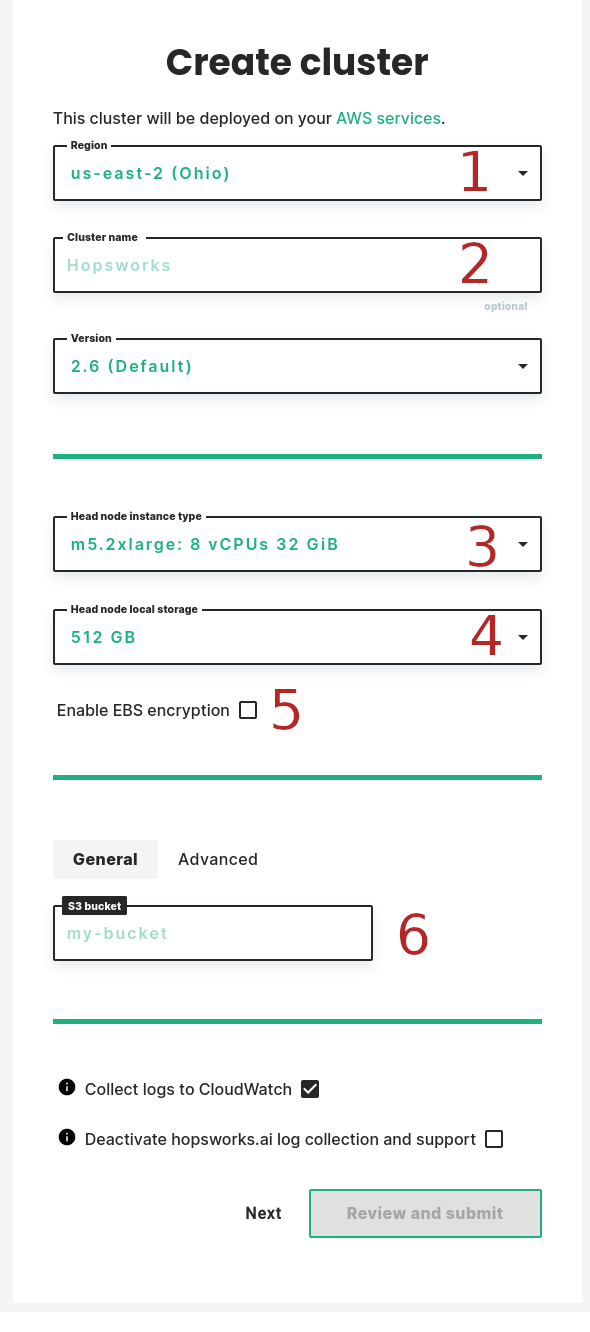
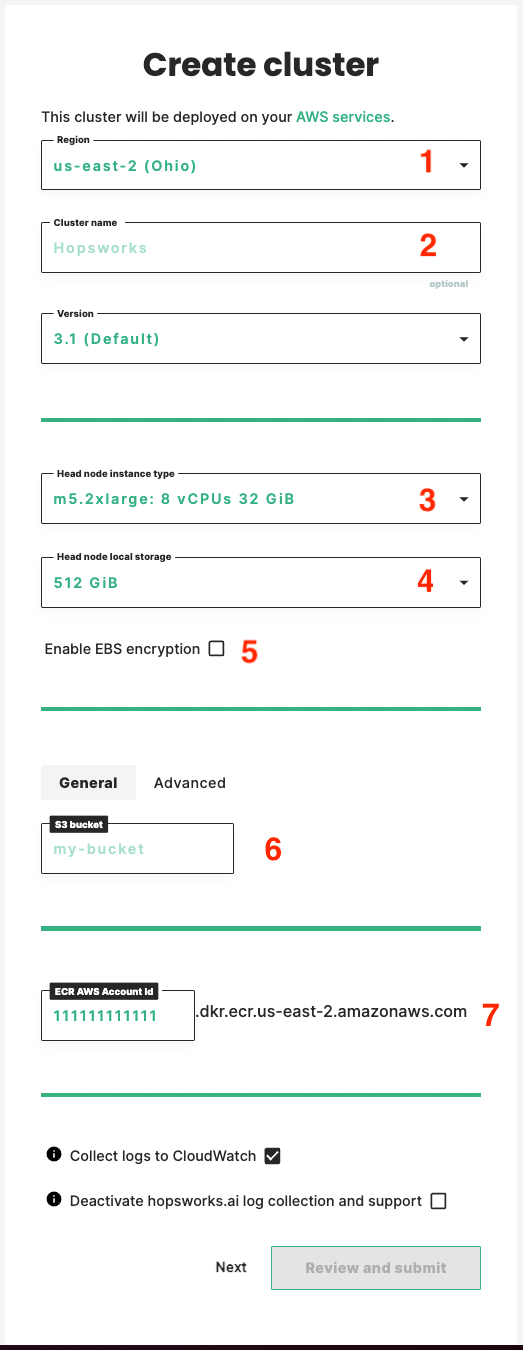
[CLOUD-96] Use managed docker registry by default

diff --git a/docs/setup_installation/aws/eks_ecr_integration.md b/docs/setup_installation/aws/eks_ecr_integration.md
@@ -1,6 +1,6 @@
-# Integration with Amazon EKS and Amazon ECR
+# Integration with Amazon EKS
 
-This guide shows how to create a cluster in [managed.hopsworks.ai](https://managed.hopsworks.ai) with integrated support for Amazon Elastic Kubernetes Service (EKS) and Amazon Elastic Container Registry (ECR). So that Hopsworks can launch Python jobs, Jupyter servers, and ML model servings on top of Amazon EKS.
+This guide shows how to create a cluster in [managed.hopsworks.ai](https://managed.hopsworks.ai) with integrated support for Amazon Elastic Kubernetes Service (EKS). So that Hopsworks can launch Python jobs, Jupyter servers, and ML model servings on top of Amazon EKS.
 
 !!! warning
     In the current version, we don't support sharing EKS clusters between Hopsworks clusters. That is, an EKS cluster can be only used by one Hopsworks cluster.
@@ -18,10 +18,10 @@ Follow the prerequisites section in [getting started with `eksctl`](https://docs
 
 ### Step 1.2: Create an EKS cluster using eksctl
 
-You can create a sample EKS cluster with the name *my-eks-cluster* using Kubernetes version *1.17* with *2* managed nodes in the *us-east-2* region by running the following command. For more details on the eksctl usage, check the [`eksctl` documentation](https://eksctl.io/usage/creating-and-managing-clusters/).
+You can create a sample EKS cluster with the name *my-eks-cluster* using Kubernetes version *1.20* with *2* managed nodes in the *us-east-2* region by running the following command. For more details on the eksctl usage, check the [`eksctl` documentation](https://eksctl.io/usage/creating-and-managing-clusters/).
 
 ```bash
-eksctl create cluster --name my-eks-cluster --version 1.17 --region us-east-2 --nodegroup-name my-nodes --nodes 2 --managed
+eksctl create cluster --name my-eks-cluster --version 1.20 --region us-east-2 --nodegroup-name my-nodes --nodes 2 --managed
 ```
 
 Output:
@@ -33,7 +33,7 @@ Output:
 [ℹ]  subnets for us-east-2b - public:192.168.0.0/19 private:192.168.96.0/19
 [ℹ]  subnets for us-east-2a - public:192.168.32.0/19 private:192.168.128.0/19
 [ℹ]  subnets for us-east-2c - public:192.168.64.0/19 private:192.168.160.0/19
-[ℹ]  using Kubernetes version 1.17
+[ℹ]  using Kubernetes version 1.20
 [ℹ]  creating EKS cluster "my-eks-cluster" in "us-east-2" region with managed nodes
 [ℹ]  will create 2 separate CloudFormation stacks for cluster itself and the initial managed nodegroup
 [ℹ]  if you encounter any issues, check CloudFormation console or try 'eksctl utils describe-stacks --region=us-east-2 --cluster=my-eks-cluster'
@@ -77,59 +77,13 @@ ip-192-168-62-117.us-east-2.compute.internal   Ready    <none>   2m34s   v1.17.9
 
 ## Step 2: Create an instance profile role on AWS
 
-You need to add permission to [the instance profile you use for instances deployed by managed.hopsworks.ai](getting_started.md#step-3-creating-instance-profile) to give them access to EKS and ECR.
+You need to add permission to [the instance profile you use for instances deployed by managed.hopsworks.ai](getting_started.md#step-3-creating-instance-profile) to give them access to EKS.
 Go to the [*IAM service*](https://console.aws.amazon.com/iam) in the *AWS management console*, click *Roles*, search for your role, and click on it. Click on *Add inline policy*. Go to the *JSON* tab and replace the existing JSON permissions with the JSON permissions below..
 
 ```json
 {
     "Version": "2012-10-17",
     "Statement": [
-        {
-            "Sid": "AllowPullMainImages",
-            "Effect": "Allow",
-            "Action": [
-                "ecr:GetDownloadUrlForLayer",
-                "ecr:BatchGetImage"
-            ],
-            "Resource": [
-                "arn:aws:ecr:*:*:repository/filebeat",
-                "arn:aws:ecr:*:*:repository/base"
-            ]
-        },
-        {
-            "Sid": "AllowCreateRespositry",
-            "Effect": "Allow",
-            "Action": "ecr:CreateRepository",
-            "Resource": "*"
-        },
-        {
-            "Sid": "AllowPushandPullImages",
-            "Effect": "Allow",
-            "Action": [
-                "ecr:GetDownloadUrlForLayer",
-                "ecr:BatchGetImage",
-                "ecr:CompleteLayerUpload",
-                "ecr:UploadLayerPart",
-                "ecr:InitiateLayerUpload",
-                "ecr:DeleteRepository",
-                "ecr:BatchCheckLayerAvailability",
-                "ecr:PutImage",
-                "ecr:ListImages",
-                "ecr:BatchDeleteImage",
-                "ecr:GetLifecyclePolicy",
-                "ecr:PutLifecyclePolicy"
-            ],
-            "Resource": [
-                "arn:aws:ecr:*:*:repository/*/filebeat",
-                "arn:aws:ecr:*:*:repository/*/base"
-            ]
-        },
-        {
-            "Sid": "AllowGetAuthToken",
-            "Effect": "Allow",
-            "Action": "ecr:GetAuthorizationToken",
-            "Resource": "*"
-        },
         {
             "Sid": "AllowDescirbeEKS",
             "Effect": "Allow",
@@ -302,78 +256,11 @@ OutputKey: "ClusterSecurityGroupId",
 OutputValue: "YOUR_EKS_SECURITY_GROUP_ID"
 ```
 
-## Step 5: Allow managed.hopsworks.ai to delete ECR repositories on your behalf
+## Step 6: Create a Hopsworks cluster with EKS support
 
-For [managed.hopsworks.ai](https://managed.hopsworks.ai) to be able to clean up the ECR repo when terminating your Hopsworks cluster, you need to add a new inline policy to the [Cross-Account role](getting_started.md#option-1-using-aws-cross-account-roles) or [user connected to managed.hopsworks.ai](getting_started.md#option-2-using-aws-access-keys), that you set up when [connecting your AWS account to managed.hopsworks.ai](getting_started.md#step-1-connecting-your-aws-account).
+In [managed.hopsworks.ai](https://managed.hopsworks.ai), follow the same instructions as in [the cluster creation guide](cluster_creation.md) except when setting *Managed Containers*, *VPC*, *Subnet*, and *Security group*. 
 
-Navigate to [AWS management console](https://console.aws.amazon.com/iam/home#), then click on *Roles* or *Users* depending on which connection method you have used in [managed.hopsworks.ai](https://managed.hopsworks.ai), and then search for your role or user name and click on it.  Go to the *Permissions* tab, click on *Add inline policy* and go to the *JSON* tab. Replace the existing JSON permissions with the JSON permissions below. Click on *Review policy*, name it, and click *Create policy*.
-
-```json
-{
-    "Version": "2012-10-17",
-    "Statement": [
-        {
-            "Sid": "AllowDeletingECRRepositories",
-            "Effect": "Allow",
-            "Action": [
-                "ecr:DeleteRepository"
-            ],
-            "Resource": [
-                "arn:aws:ecr:*:*:repository/*/filebeat",
-                "arn:aws:ecr:*:*:repository/*/base"
-            ]
-        }
-    ]
-}
-```
-
-## Step 6: Create a Hopsworks cluster with EKS and ECR support
-
-In [managed.hopsworks.ai](https://managed.hopsworks.ai), select *Create cluster*. Choose the region of your EKS cluster and fill in the name of your [S3 bucket](getting_started.md#step-2-creating-storage), then click Next:
-
-<p align="center">
-  <figure>
-    <a  href="../../../assets/images/setup_installation/managed/aws/eks-hopsworks-create-cluster.png">
-      <img style="border: 1px solid #000" src="../../../assets/images/setup_installation/managed/aws/eks-hopsworks-create-cluster.png" alt="Create Hopsworks cluster">
-    </a>
-    <figcaption>Create Hopsworks cluster</figcaption>
-  </figure>
-</p>
-
-Choose your preferred [SSH key](getting_started.md#step-4-create-an-ssh-key) to use with the cluster, then click Next:
-
-<p align="center">
-  <figure>
-    <a  href="../../../assets/images/setup_installation/managed/aws/eks-hopsworks-create-cluster-0.png">
-      <img style="border: 1px solid #000" src="../../../assets/images/setup_installation/managed/aws/eks-hopsworks-create-cluster-0.png" alt="Choose SSH key">
-    </a>
-    <figcaption>Choose SSH key</figcaption>
-  </figure>
-</p>
-
-Choose the instance profile role that you have created in [Step 2](#step-2-create-an-instance-profile-role-on-aws) (click on the refresh button if your instance profile is not in the list), then click Next:
-
-<p align="center">
-  <figure>
-    <a  href="../../../assets/images/aws/setup_installation/managed/eks-hopsworks-create-cluster-1.png">
-      <img style="border: 1px solid #000" src="../../../assets/images/setup_installation/managed/aws/eks-hopsworks-create-cluster-1.png" alt="Choose instance profile role">
-    </a>
-    <figcaption>Choose instance profile role</figcaption>
-  </figure>
-</p>
-
-Choose the [backup retention period](cluster_creation.md#step-6-set-the-backup-retention-policy) and click Next:
-
-<p align="center">
-  <figure>
-    <a  href="../../../assets/images/setup_installation/managed/azure/connect-azure-backup.png">
-      <img style="border: 1px solid #000" src="../../../assets/images/setup_installation/managed/azure/connect-azure-backup.png" alt="Choose the backup retention policy">
-    </a>
-    <figcaption>Choose the backup retention policy</figcaption>
-  </figure>
-</p>
-
-Choose **Enabled** to enable the use of Amazon EKS and ECR:
+Choose **Enabled** to enable the use of Amazon EKS:
 
 <p align="center">
   <figure>

diff --git a/docs/setup_installation/aws/cluster_creation.md b/docs/setup_installation/aws/cluster_creation.md
@@ -57,7 +57,8 @@ Users can also select an AWS *canned* **ACLs** for the objects:
 
 1. `bucket-owner-full-control`
 
-
+#### ECR AWS Account Id
+Enter the *AWS account Id* (7) to setup ECR repositories for the cluster. It is set by default to the AWS account id where you set the cross account role.  
 
 On the main page, you can also choose to aggregate logs in CloudWatch and to opt out of [managed.hopsworks.ai](https://managed.hopsworks.ai) log collection. The first one is to aggregate the logs of services running in your cluster in CloudWatch service in your configured AWS account. This can be useful if you want to understand what is happening on your cluster, without having to ssh into the instances. The second one is for [managed.hopsworks.ai](https://managed.hopsworks.ai) to collect logs about the services running in your cluster. These logs will help us improve our system and provide support. If you choose to opt-out from the log collection and need support you will have to provide us the log by yourself, which will slow down the support process.
 
@@ -142,7 +143,7 @@ To backup the S3 bucket data when taking a cluster backup we need to set a reten
 </p>
 
 ### Step 7 Managed Containers
-Hopsworks can integrate with Amazon Elastic Kubernetes Service (EKS) and Amazon Elastic Container Registry (ECR) to launch Python jobs, Jupyter servers, and ML model servings on top of Amazon EKS. For more detail on how to set up this integration refer to [Integration with Amazon EKS and Amazon ECR](eks_ecr_integration.md).
+Hopsworks can integrate with Amazon Elastic Kubernetes Service (EKS) to launch Python jobs, Jupyter servers, and ML model servings on top of Amazon EKS. For more detail on how to set up this integration refer to [Integration with Amazon EKS](eks_ecr_integration.md).
 <p align="center">
   <figure>
     <a  href="../../../assets/images/setup_installation/managed/aws/eks-hopsworks-create-cluster-2.png">

diff --git a/docs/setup_installation/aws/instance_profile_permissions.md b/docs/setup_installation/aws/instance_profile_permissions.md
@@ -32,6 +32,52 @@ Replace *BUCKET_NAME* with the appropriate S3 bucket name.
       ]
     },
     {
+      "Sid": "AllowPullMainImages",
+      "Effect": "Allow",
+      "Action": [
+        "ecr:GetDownloadUrlForLayer",
+        "ecr:BatchGetImage"
+      ],
+      "Resource": [
+        "arn:aws:ecr:*:*:repository/filebeat",
+        "arn:aws:ecr:*:*:repository/base"
+      ]
+    },
+    {
+      "Sid": "AllowCreateRespositry",
+      "Effect": "Allow",
+      "Action": "ecr:CreateRepository",
+      "Resource": "*"
+    },
+    {
+      "Sid": "AllowPushandPullImages",
+      "Effect": "Allow",
+      "Action": [
+        "ecr:GetDownloadUrlForLayer",
+        "ecr:BatchGetImage",
+        "ecr:CompleteLayerUpload",
+        "ecr:UploadLayerPart",
+        "ecr:InitiateLayerUpload",
+        "ecr:DeleteRepository",
+        "ecr:BatchCheckLayerAvailability",
+        "ecr:PutImage",
+        "ecr:ListImages",
+        "ecr:BatchDeleteImage",
+        "ecr:GetLifecyclePolicy",
+        "ecr:PutLifecyclePolicy"
+      ],
+      "Resource": [
+        "arn:aws:ecr:*:*:repository/*/filebeat",
+        "arn:aws:ecr:*:*:repository/*/base"
+      ]
+    },
+    {
+      "Sid": "AllowGetAuthToken",
+      "Effect": "Allow",
+      "Action": "ecr:GetAuthorizationToken",
+      "Resource": "*"
+    },
+    {
       "Effect": "Allow",
       "Action": [
         "cloudwatch:PutMetricData",
@@ -51,17 +97,6 @@ Replace *BUCKET_NAME* with the appropriate S3 bucket name.
         "ssm:GetParameter"
       ],
       "Resource": "arn:aws:ssm:*:*:parameter/AmazonCloudWatch-*"
-    },
-    {
-      "Sid": "UpgradePermissions",
-      "Effect": "Allow",
-      "Action": [
-        "ec2:DescribeVolumes",
-        "ec2:DetachVolume",
-        "ec2:AttachVolume",
-        "ec2:ModifyInstanceAttribute"
-      ],
-      "Resource": "*"
     }
   ]
 }

diff --git a/docs/setup_installation/aws/getting_started.md b/docs/setup_installation/aws/getting_started.md
@@ -325,11 +325,14 @@ Select the *Region* in which you want your cluster to run (1), name your cluster
 
 Select the *Instance type* (3) and *Local storage* (4) size for the cluster *Head node*.
 
-Enter the name of the *S3 bucket* (5) you created above in *S3 bucket*.
+Check if you want to *Enable EBS encryption* (5)
+
+Enter the name of the *S3 bucket* (6) you created above in *S3 bucket*.
 
 !!! note
     The S3 bucket you are using must be empty.
 
+Make sure that the *ECR AWS Account Id* (7) is correct. It is set by default to the AWS account id where you set the cross account role. 
 Press *Next*:
 
 <p align="center">

diff --git a/docs/setup_installation/aws/restrictive_permissions.md b/docs/setup_installation/aws/restrictive_permissions.md
@@ -269,6 +269,8 @@ Hopsworks put its logs in Amazon CloudWatch so that you can access them without 
     }
 ```
 ### Upgrade permissions 
+!!! warning
+    This section is obselete and only applicable clusters with version 2.2 or older
 
 #### Removing upgrade permissions
 If you do not intend to upgrade your cluster to newer versions of Hopsworks, then you can remove the upgrade permissions statement from the instance profile that you have created [here](../getting_started/#step-3-creating-instance-profile). For this remove the following statement from your instance profile
